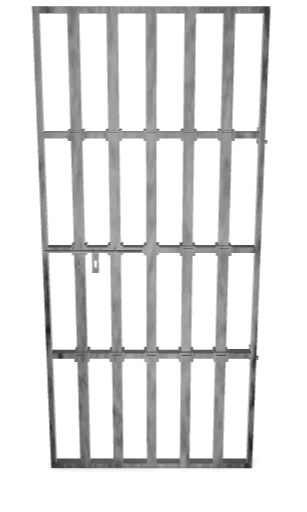
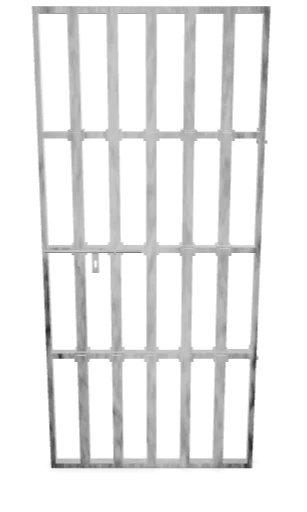
up

Changed region(s): [[0.0879, 0.0, 0.8795, 0.9375]]

diff --git a/index.html b/index.html
@@ -1,7 +1,7 @@
 <!doctype html>
 <html lang="en">
   <head>
-    <title>Barreaux Porte AR</title>
+    <title>&lt;model-viewer&gt; template</title>
     <meta charset="utf-8">
     <meta name="description" content="&lt;model-viewer&gt; template">
     <meta name="viewport" content="width=device-width, initial-scale=1">
@@ -11,7 +11,7 @@
   </head>
   <body>
     <!-- <model-viewer> HTML element -->
-    <model-viewer bounds="tight" src="barreaux_porte_final.glb" ar ar-modes="webxr scene-viewer quick-look" camera-controls environment-image="neutral" poster="poster.webp" shadow-intensity="1">
+    <model-viewer bounds="tight" src="barreaux_porte_final.glb" ar ar-modes="webxr scene-viewer quick-look" camera-controls environment-image="neutral" poster="poster.webp" shadow-intensity="1" exposure="1.48">
       <div class="progress-bar hide" slot="progress-bar">
           <div class="update-bar"></div>
       </div>
